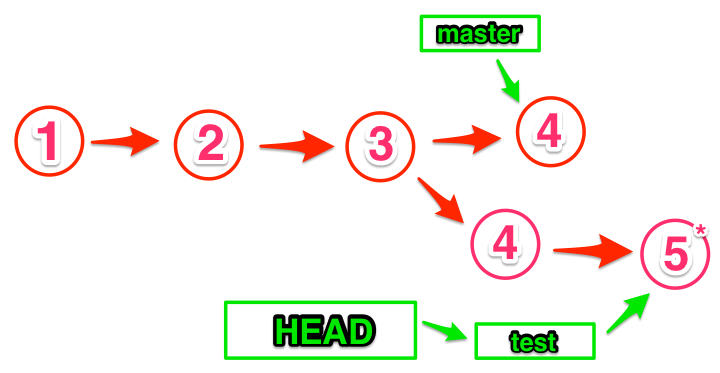
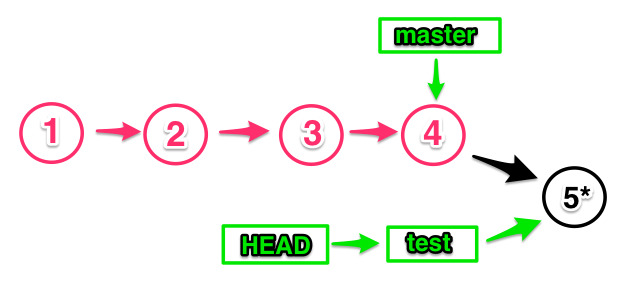
Fix Rebase diagram.

Changed region(s): [[0.0, 0.0282, 1.0, 0.9859]]

diff --git a/README.md b/README.md
@@ -705,6 +705,8 @@ Note:
 
 Note:
 - HEAD now points to master branch
+- Branches are typically created for new features, hotfixes
+- Some projects (Drupal) use a branch per major version
 
 
 
@@ -716,25 +718,31 @@ $ git merge test
 ~~~
 <!-- .element: class="large-code" -->
 
+Note:
+- `git merge` is one way we can integrate changes from one branch to another
+- When we do a merge, a couple of things could happen
+
 
 
 ### Fast-forward merge
 <img src="custom/images/branch-5.png">
 
 Note:
-- HEAD now points to master branch
+- A fast-forward merge is the simplest type of merge
+- Let's review: atfer `git checkout master` HEAD now points to master branch
 
 
 
-#### git merge test
+#### `git merge test`
 <img src="custom/images/fast-forward.png">
 
 Note:
-- master branch hasn't changed, move to last commit of test
+- There are no new commits on the **master** branch
+- Advance **master** to where **test** is pointing
 
 
 
-### Commits exist on both branches
+### Three-way merge
 <img src="custom/images/divergent-branches.png">
 
 Note:
